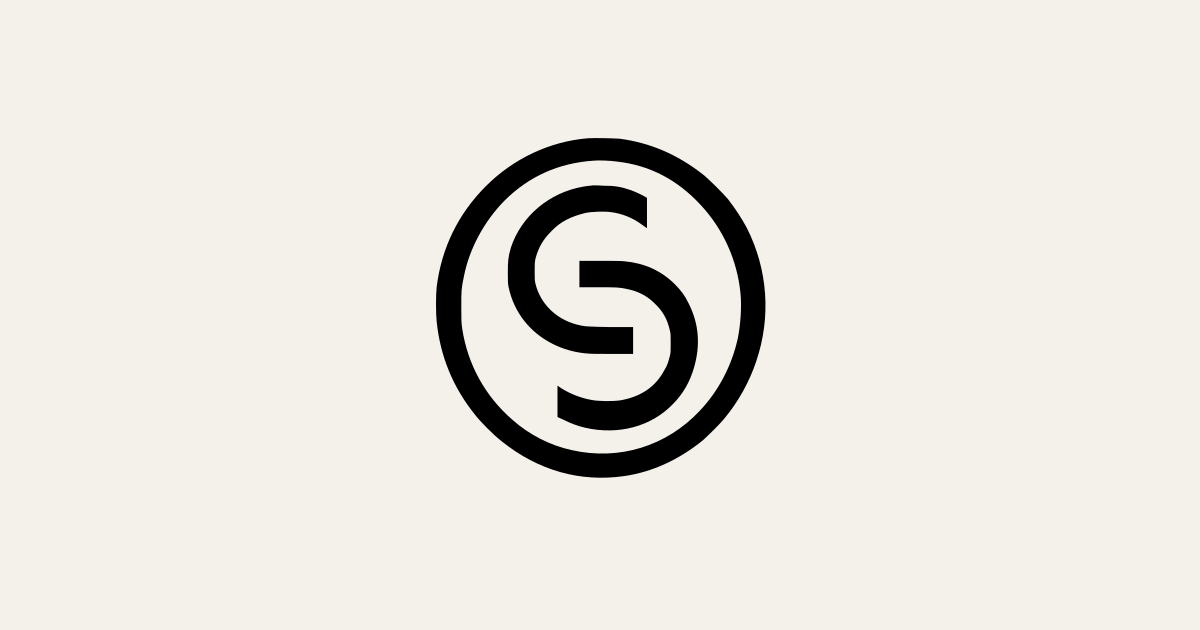
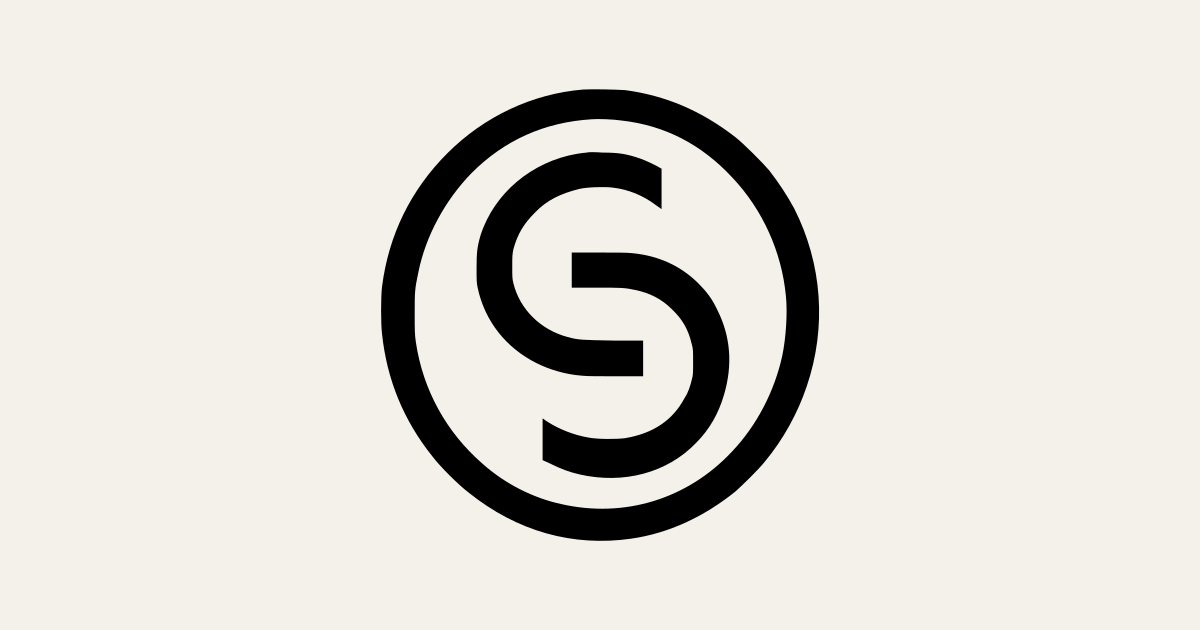
fix: enlarge OG mark and use large Twitter card
The first export used the padded master at full frame height, so the
ink was only ~330px on a 1200×630 canvas. Re-export from the tight
mark at readable size and switch twitter:card to summary_large_image
so crawlers show the landscape preview instead of a cropped thumb.

Changed region(s): [[0.3083, 0.1206, 0.7092, 0.8746]]

diff --git a/index.html b/index.html
@@ -19,7 +19,7 @@
   <meta property="og:image:width" content="1200">
   <meta property="og:image:height" content="630">
   <meta property="og:image:alt" content="Good Standing">
-  <meta name="twitter:card" content="summary">
+  <meta name="twitter:card" content="summary_large_image">
   <meta name="twitter:title" content="Good Standing — software for UK membership bodies">
   <meta name="twitter:description" content="We’re building Good Standing so secretaries and registrars can manage members, fees and who’s in good standing in one place.">
   <meta name="twitter:image" content="https://goodstanding.co.uk/assets/og.png">

diff --git a/privacy/index.html b/privacy/index.html
@@ -19,7 +19,7 @@
   <meta property="og:image:width" content="1200">
   <meta property="og:image:height" content="630">
   <meta property="og:image:alt" content="Good Standing">
-  <meta name="twitter:card" content="summary">
+  <meta name="twitter:card" content="summary_large_image">
   <meta name="twitter:title" content="Privacy notice — Good Standing">
   <meta name="twitter:description" content="Privacy notice for Good Standing Software Ltd, explaining how we collect and use personal information for our membership management software.">
   <meta name="twitter:image" content="https://goodstanding.co.uk/assets/og.png">

diff --git a/thanks/index.html b/thanks/index.html
@@ -19,7 +19,7 @@
   <meta property="og:image:width" content="1200">
   <meta property="og:image:height" content="630">
   <meta property="og:image:alt" content="Good Standing">
-  <meta name="twitter:card" content="summary">
+  <meta name="twitter:card" content="summary_large_image">
   <meta name="twitter:title" content="Thank you — Good Standing">
   <meta name="twitter:description" content="Thank you for completing the Good Standing research survey. Your answers are confidential; there is nothing to buy.">
   <meta name="twitter:image" content="https://goodstanding.co.uk/assets/og.png">
